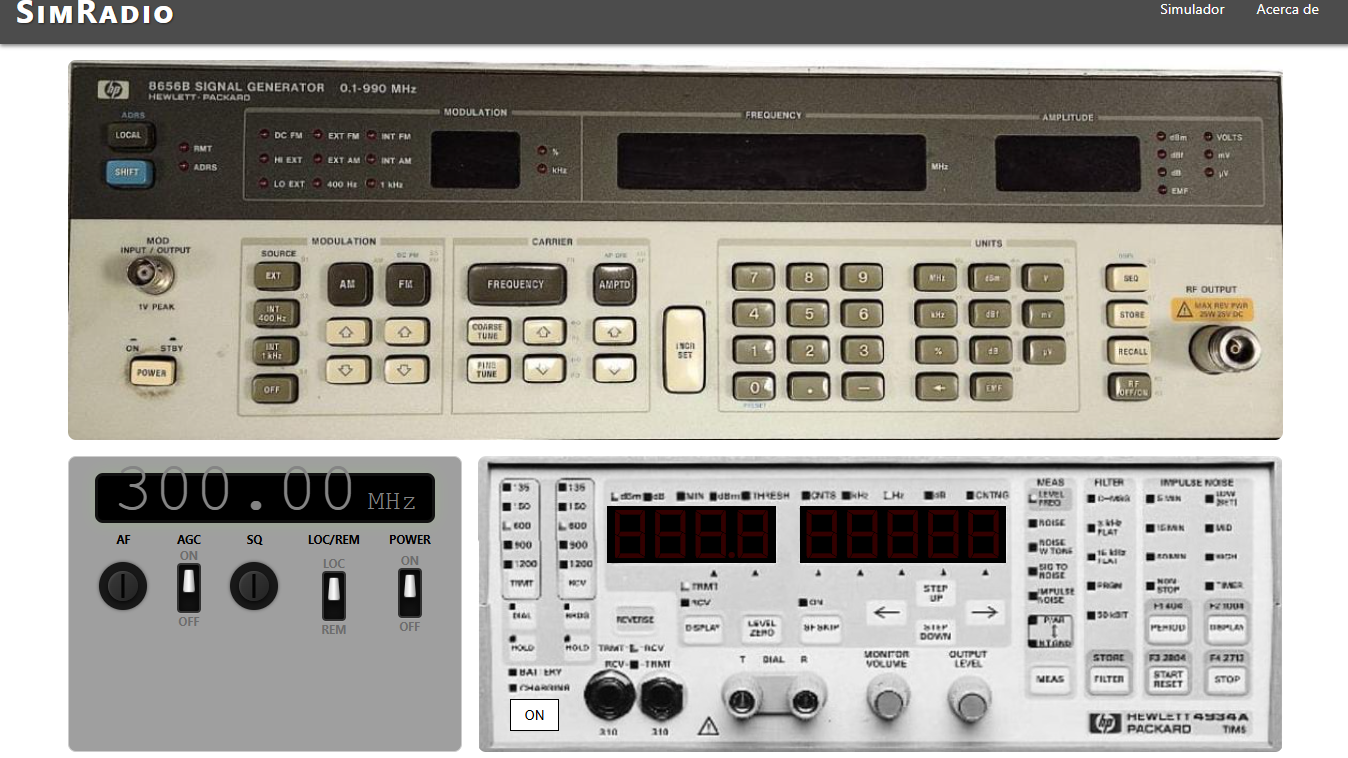
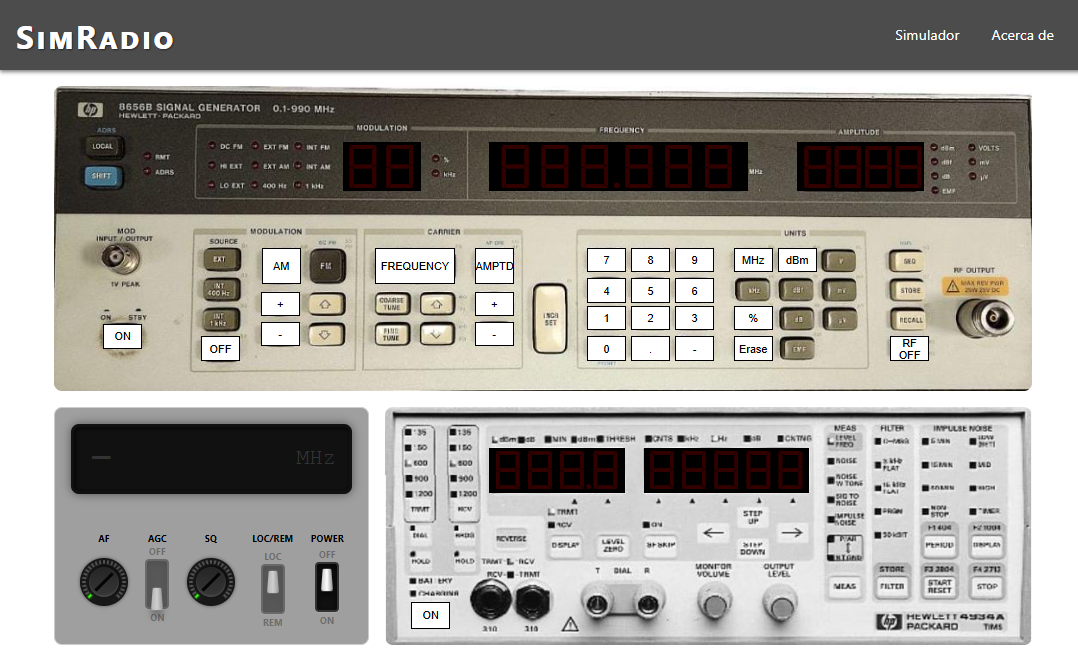
docs: update devlog and change screenshot

diff --git a/DEVLOG.md b/DEVLOG.md
@@ -1,9 +1,17 @@
 # DEVLOG
 
+## 09 de mayo de 2026
+- se ajusta el tamaño del panel bajo del transceptor.
+- se sincroniza el estado interno del transceptor con su UI.
+- se agregan los botones al generador RF (solo interfaz).
+- se remplaza el screenshot del README
+
 ## 06 de mayo de 2026
 - se trabaja en la reactividad del estado de las clases `GenRF`, `Transceiver` y `TIMS`.
-- se actualiza la ficha técnica del proyecto y el screenshoot del README.
+- se actualiza la ficha técnica del proyecto y el screenshot del README.
 - se implementan los displays de `GenRF`.
+- se arregla el overflow del display del transceptor.
+- se implementa la interfaz de los potenciometros.
 
 ## 05 de mayo de 2026
 - se trabaja en el borrador de la ficha técnica del proyecto.